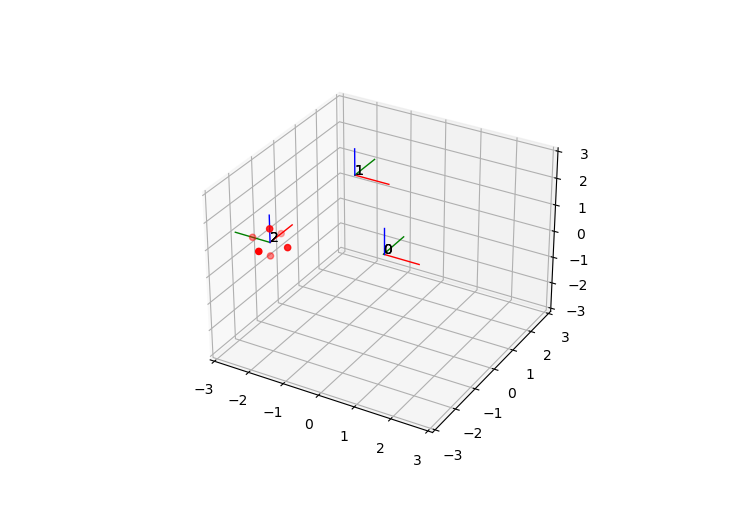
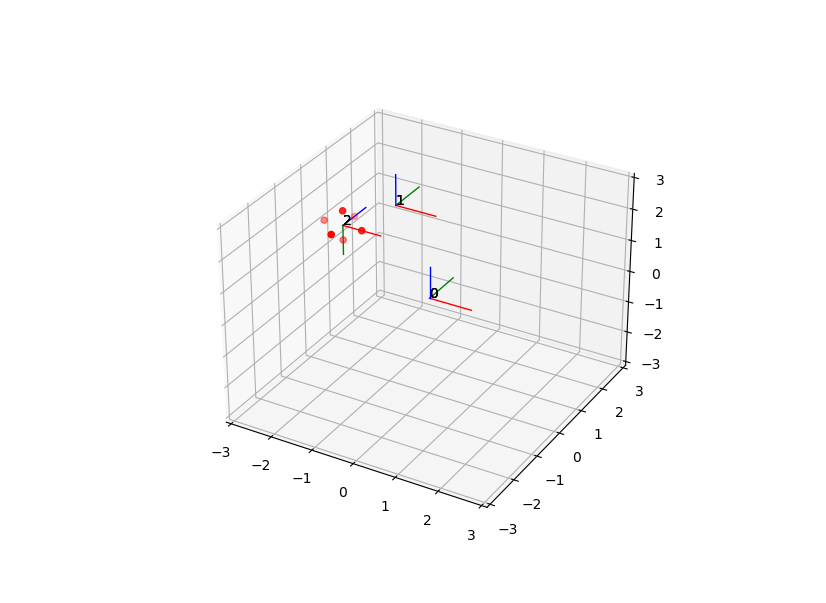
Task 2 - text redaction

diff --git a/task_2.py b/task_2.py
@@ -1,0 +1,74 @@
+"""
+Program generates sample image (Figure 4) for Problem 2
+"""
+import numpy as np
+import matplotlib.pyplot as plt
+from scipy.spatial.transform import Rotation as R
+import sys
+
+
+def plot_matrix(transformation_matrix, ax, s='a'):
+    for v, c in zip([[1, 0, 0, 1], [0, 1, 0, 1], [0, 0, 1, 1]], ['r', 'g', 'b']):
+        zero = [0, 0, 0, 1]
+        x, y, z, _ = zip(zero, v)
+        # plt.plot(x, y, z, f'--{c}', linewidth=1)
+        x, y, z, _ = zip(np.dot(transformation_matrix, zero),
+                         np.dot(transformation_matrix, v))
+        plt.plot(x, y, z, f'-{c}', linewidth=1)
+        ax.text(x[0], y[0], z[0], s=s)
+
+
+def plot_plot(case=1):
+    fig = plt.figure(figsize=[10, 8])
+    ax = fig.add_subplot(1, 1, 1, projection='3d')
+
+    matrix_1 = [
+        [1, 0, 0, 0],
+        [0, 1, 0, 0],
+        [0, 0, 1, 0],
+        [0, 0, 0, 1]]
+
+    plot_matrix(matrix_1, ax, '0')
+
+    matrix_2 = [
+        [1, 0, 0, -2],
+        [0, 1, 0, 2],
+        [0, 0, 1, 1],
+        [0, 0, 0, 1]]
+    print(matrix_2)
+    plot_matrix(matrix_2, ax, '1')
+
+    matrix_5 = np.zeros((4, 4))
+    matrix_5[:3, :3] = R.from_euler('x', -90, degrees=True).as_matrix()
+    matrix_5[3, 3] = 1
+    matrix_5 = np.dot(matrix_5, matrix_2)
+    print(matrix_5.astype(int))
+    matrix_5 = np.dot(matrix_2, matrix_5)
+    # matrix_5 = np.dot(np.dot(matrix_5, matrix_2), matrix_2)
+    plot_matrix(matrix_5, ax, '2')
+
+    points = np.array([
+        [1, 0, 0],
+        [-1, 0, 0],
+        [0, 1, 0],
+        [0, -1, 0],
+        [0, 0, 1],
+        [0, 0, -1]]) / 2
+    print(points)
+    points = np.dot(matrix_5, np.hstack([points, np.ones((6, 1))]).T).T
+    xs = points[:, 0]
+    ys = points[:, 1]
+    zs = points[:, 2]
+
+    ax.scatter(xs, ys, zs, c='r')
+    ax.set_xlim(-3, 3)
+    ax.set_ylim(-3, 3)
+    ax.set_zlim(-3, 3)
+
+    plt.show()
+
+# For every single one of eight cases, without looking at the source code, just by looking at
+# plots, find a matrix
+
+
+plot_plot()

diff --git a/README.md b/README.md
@@ -4,11 +4,11 @@ This lab serves as a basis for the theoretical part of the exam.
 
 ## Problem 1
 
-There are 8 subtasks of this task
+There are 8 subproblems of this problem
 
 https://github.com/kciebiera/zad_11_delete_later/blob/234e9cd36e6215b0c9fb558fa6e3bd402c51baa1/task_1.py#L1-L66
 
-`task_1.py` program can generate eight different plots. For instance `task_1.py 3`:
+`task_1.py` program can generate eight different plots. For instance if you run `python task_1.py 3` (which is the third ):
 
 ![](Figure_3.png)
 
@@ -22,25 +22,35 @@ For every of eight plots find a (4x4) transformation from base to transformed fr
 Write a python program, that takes as an input:
 
 1. Series of transformations from base frame to end effector frame described by (4x4) matrices.
-2. Point cloud with respect to end effector frame (for instance this is a ball of radius 1 $x^2 + y^2 + z^2 <= 1$).
+2. Point cloud with respect to end effector frame.
 
 and produces a matplotlib 3D plot containing:
 
-1. All frames 
+1. All frames (labeled by number)
 2. Transformed point cloud
 
 For two matrices:
 
 ```
-[[1, 0, 0, 0], [0, 1, 0, 0], [0, 0, 1, 0], [0, 0, 0, 1]]
-[[ 2.22044605e-16 -1.00000000e+00  0.00000000e+00  0.00000000e+00]
- [ 1.00000000e+00  2.22044605e-16  0.00000000e+00  0.00000000e+00]
- [ 0.00000000e+00  0.00000000e+00  1.00000000e+00  0.00000000e+00]
- [ 0.00000000e+00  0.00000000e+00  0.00000000e+00  1.00000000e+00]]
+matrix_1 = [
+    [1, 0, 0, -2],
+    [0, 1, 0, 2],
+    [0, 0, 1, 1],
+    [0, 0, 0, 1]
+]
+
+matrix_2 = [
+    [ 1  0  0 -2],
+    [ 0  0  1  1],
+    [ 0 -1  0 -1],
+    [ 0  0  0  1]
+]
+
 ```
 
 and point cloud
 ```
+points = 
 [[ 0.5  0.   0. ]
  [-0.5  0.   0. ]
  [ 0.   0.5  0. ]
@@ -49,7 +59,13 @@ and point cloud
  [ 0.   0.  -0.5]]
 ```
 
-Output can be:
+Output of the function call 
+
+```
+plot_frames_and_points([matrix_1, matrix_2], points)
+```
+
+could be:
 
 ![](Figure_4.png)
 
